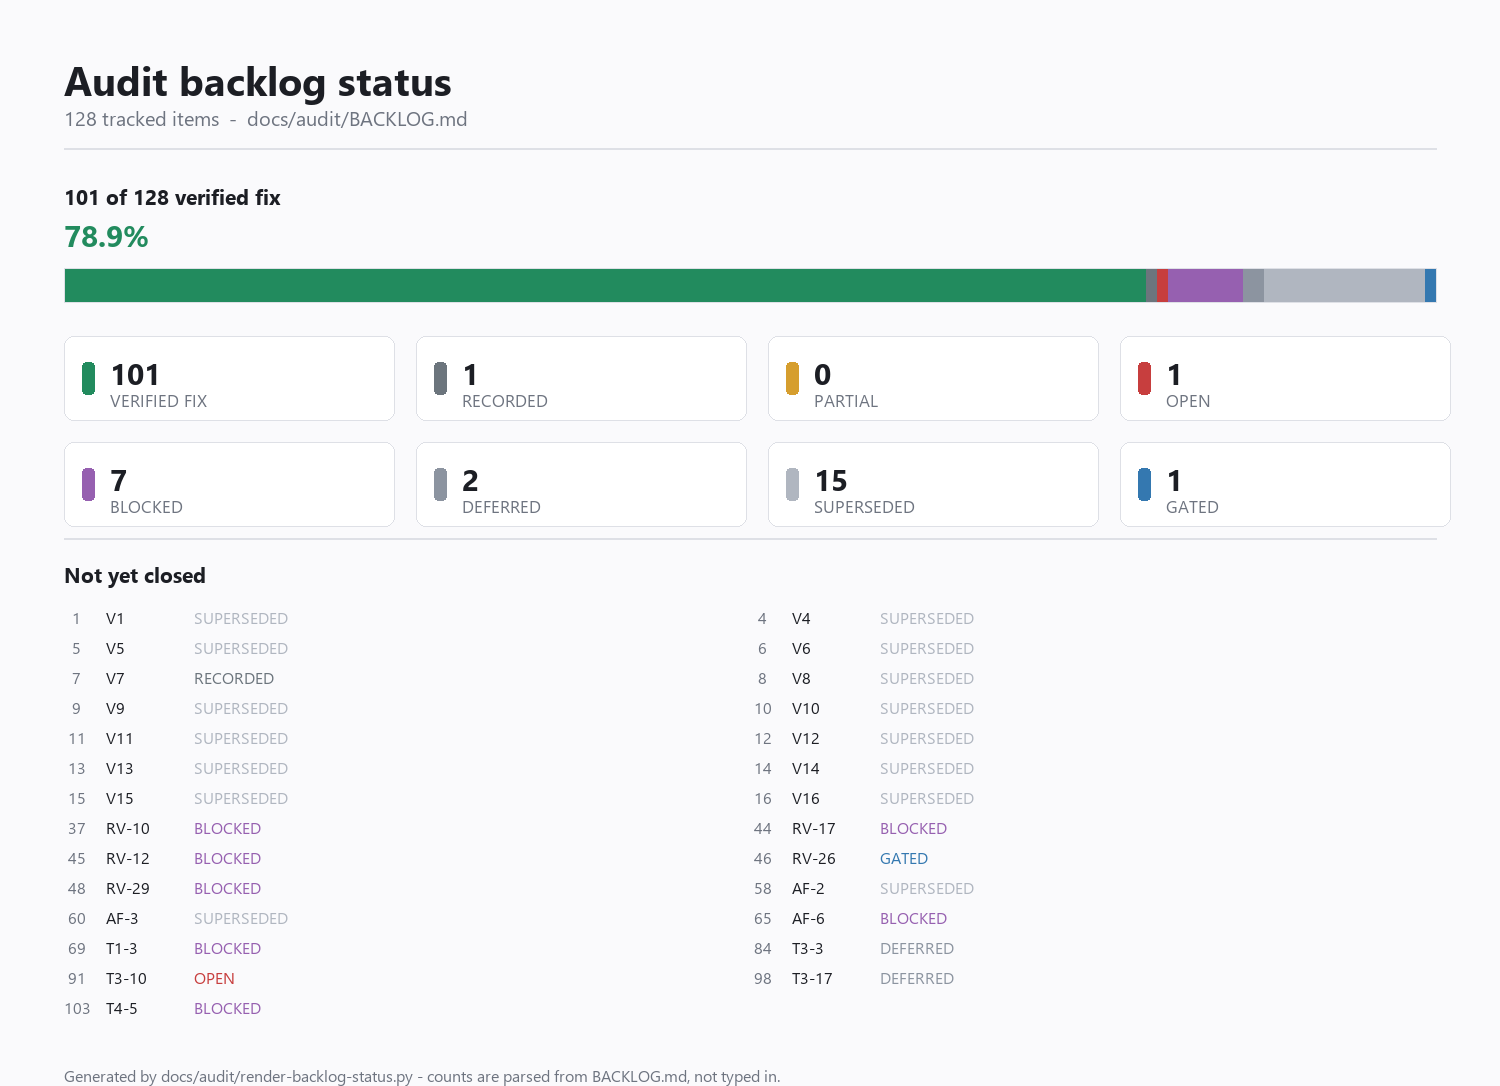
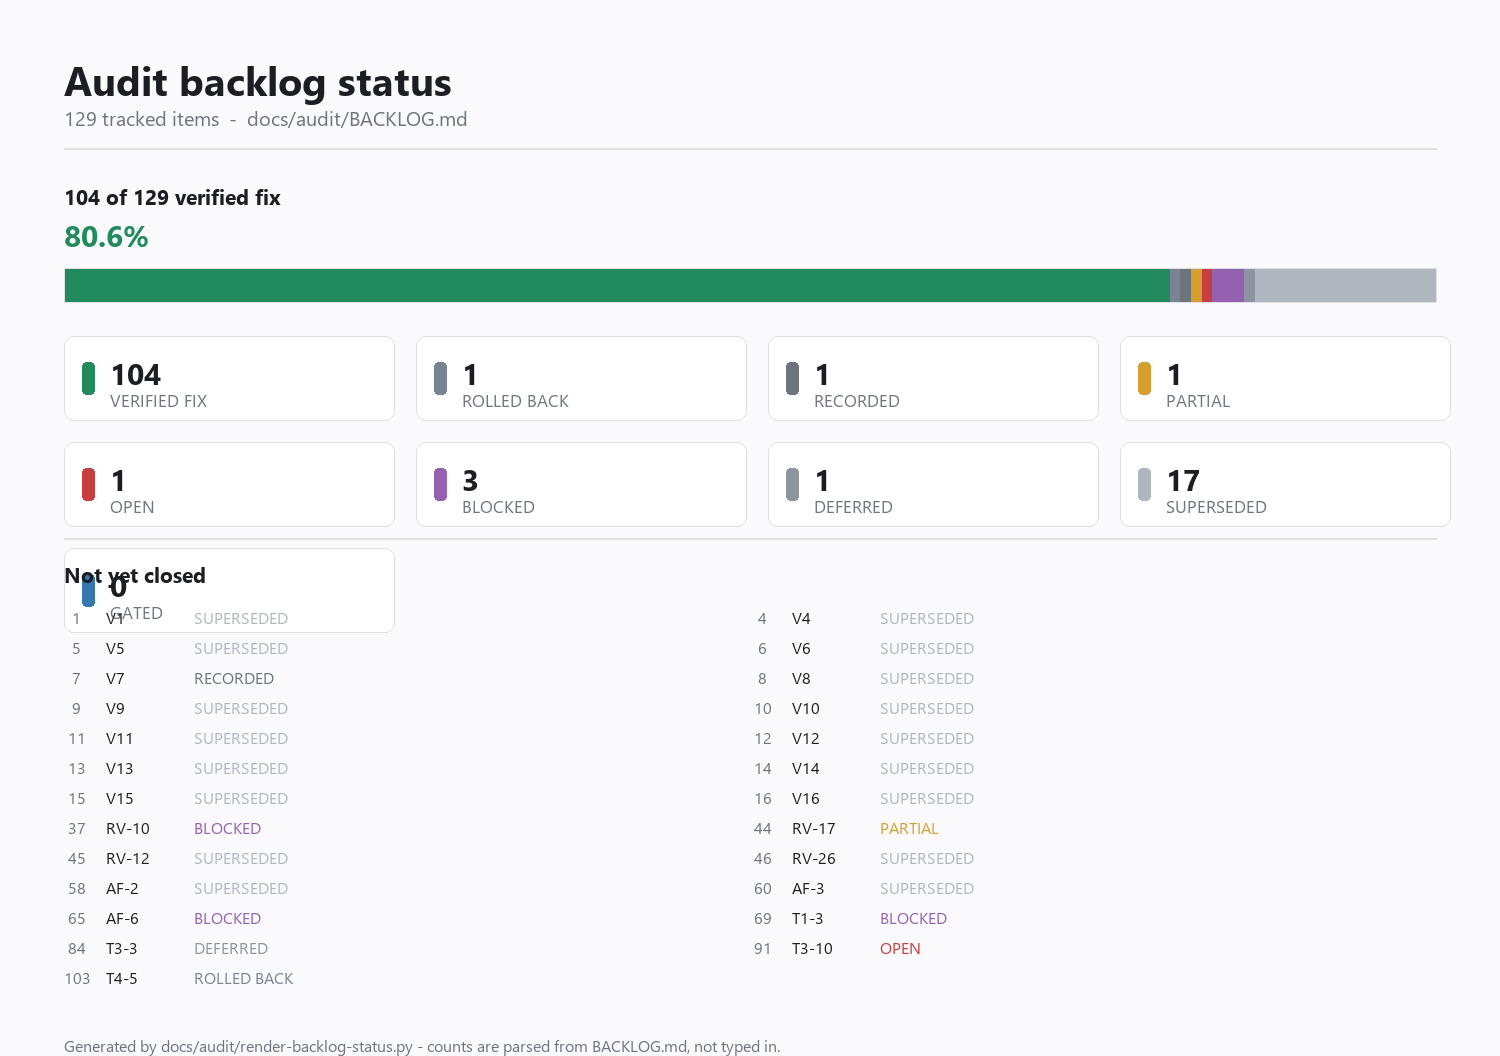
Render ROLLED BACK in the backlog status PNG; regenerate after the owner-decision batch

diff --git a/docs/audit/render-backlog-status.py b/docs/audit/render-backlog-status.py
@@ -32,8 +32,9 @@ COLORS = {
     "DEFERRED":     (140, 148, 160),
     "SUPERSEDED":   (176, 182, 192),
     "GATED":        (52, 120, 176),
+    "ROLLED BACK":  (120, 132, 148),
 }
-ORDER = ["VERIFIED FIX", "RECORDED", "PARTIAL", "OPEN", "BLOCKED", "DEFERRED", "SUPERSEDED", "GATED"]
+ORDER = ["VERIFIED FIX", "ROLLED BACK", "RECORDED", "PARTIAL", "OPEN", "BLOCKED", "DEFERRED", "SUPERSEDED", "GATED"]
 
 
 def parse_backlog(text: str):
